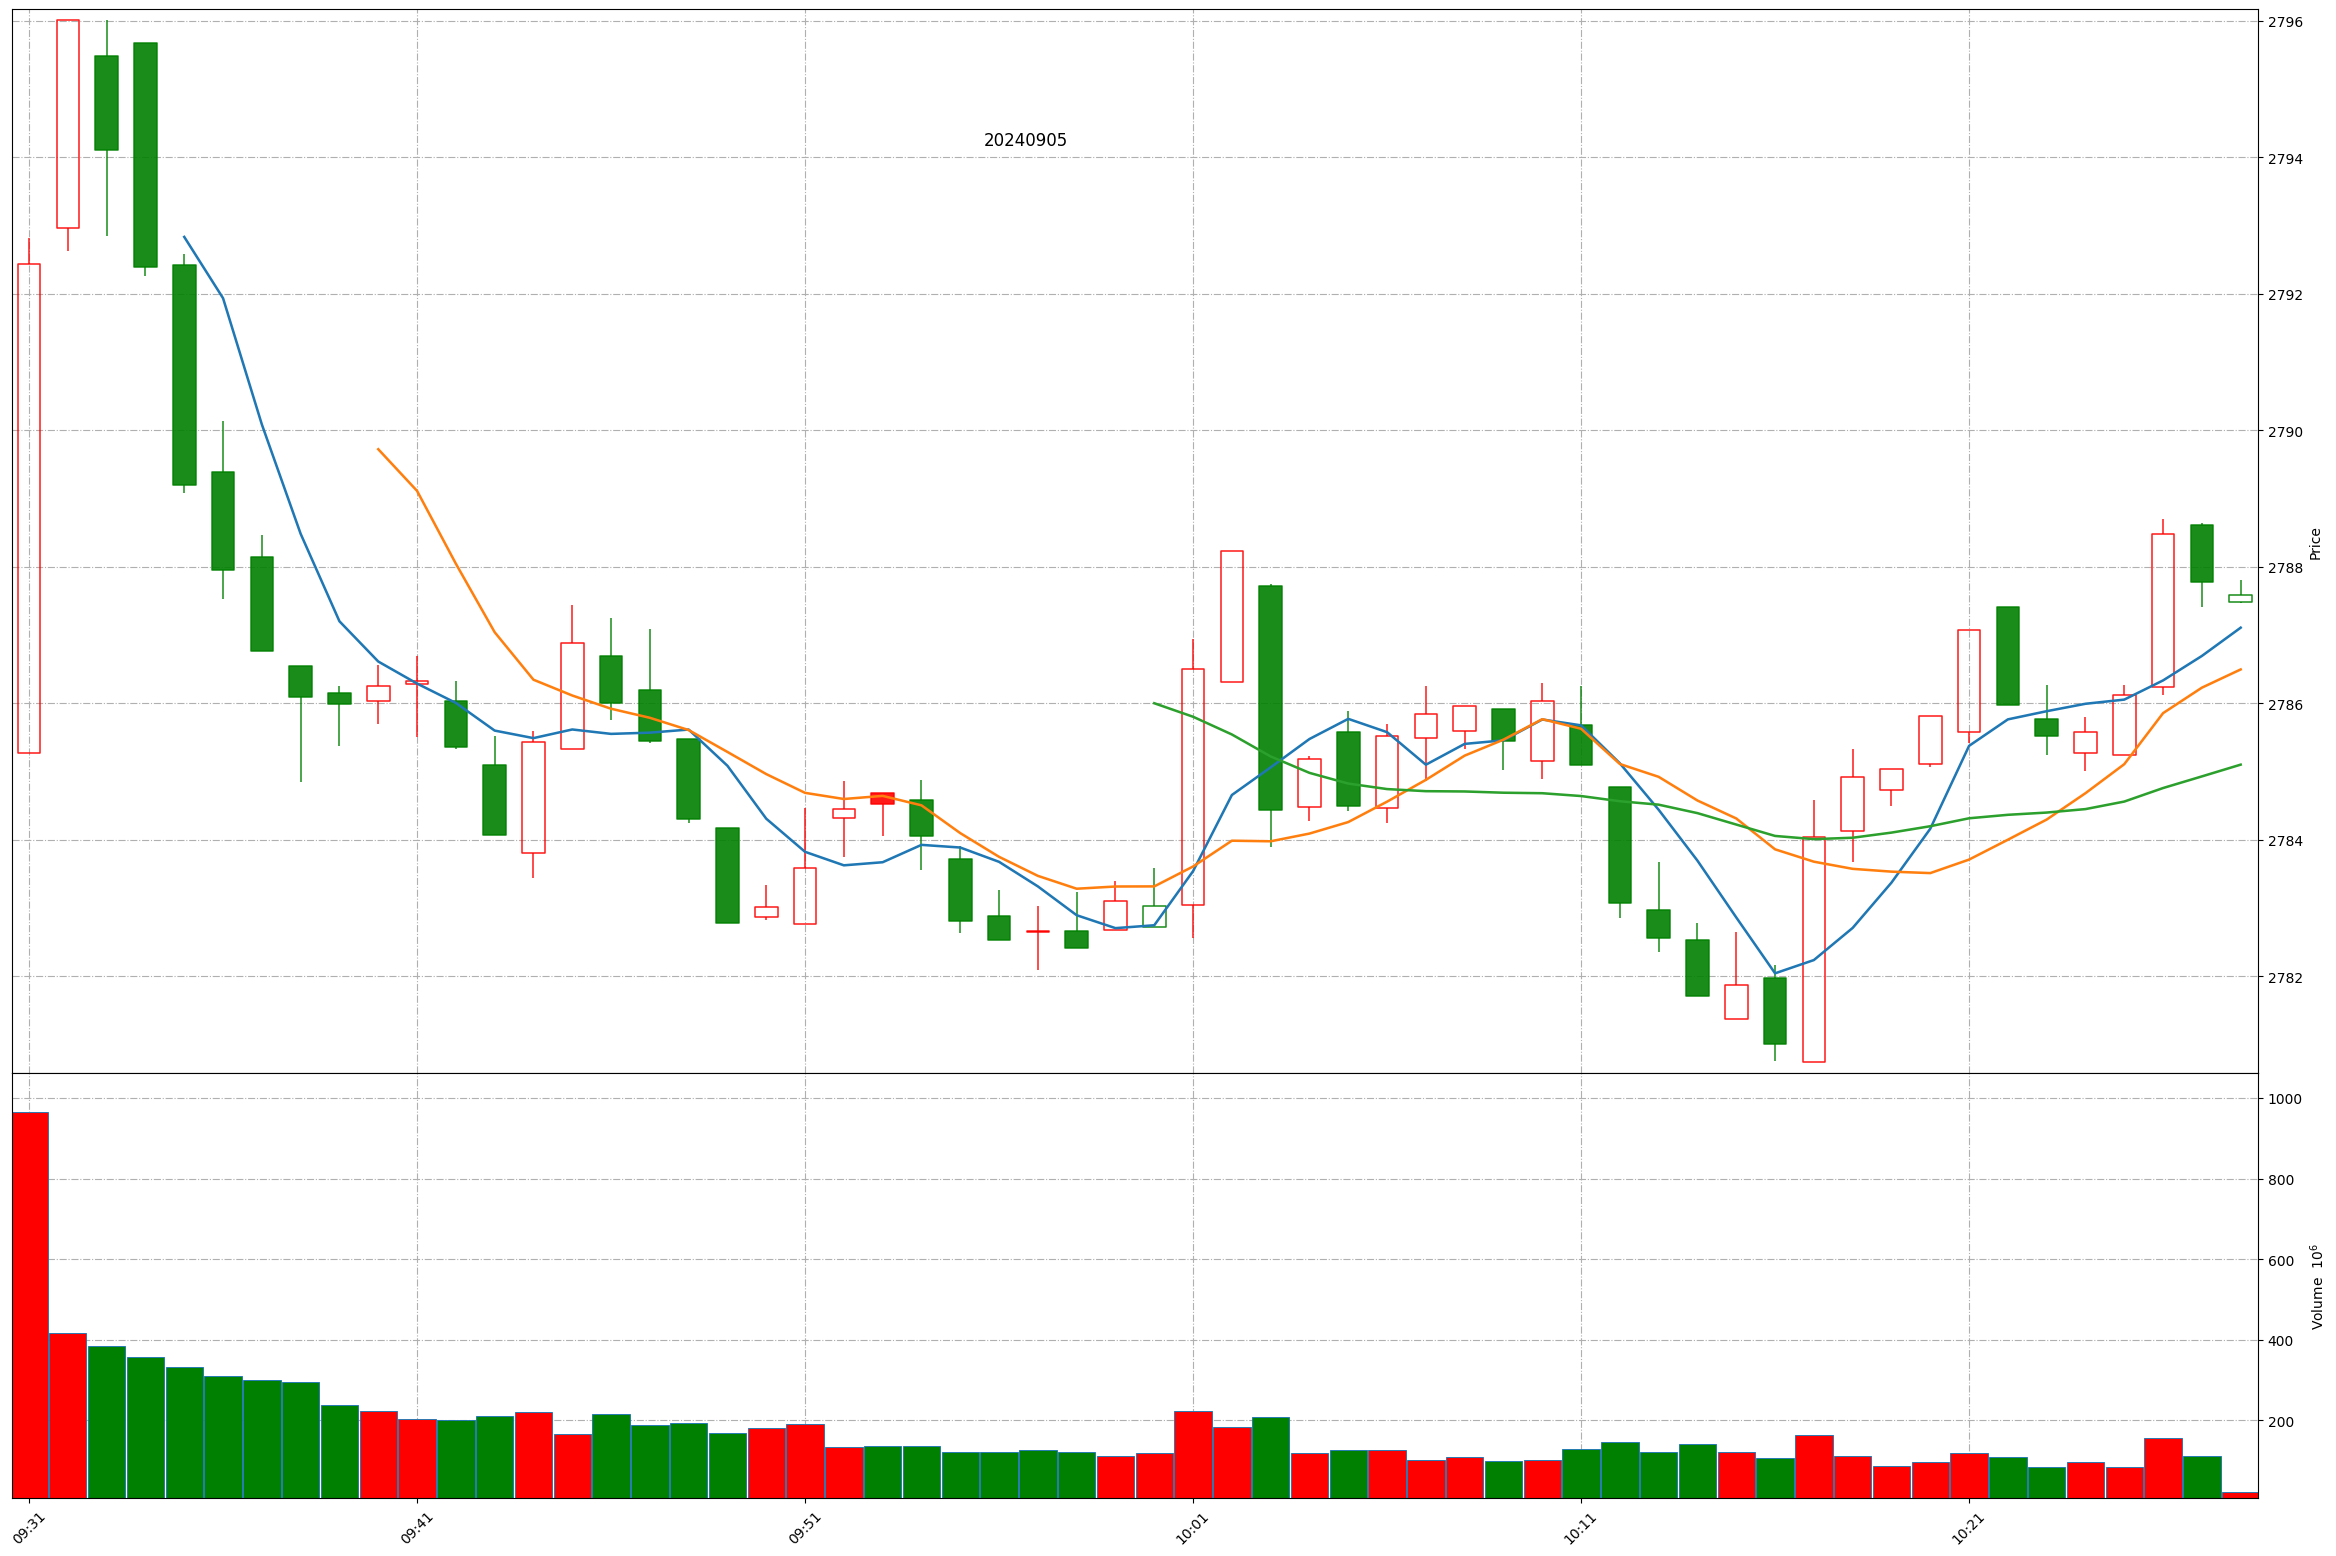
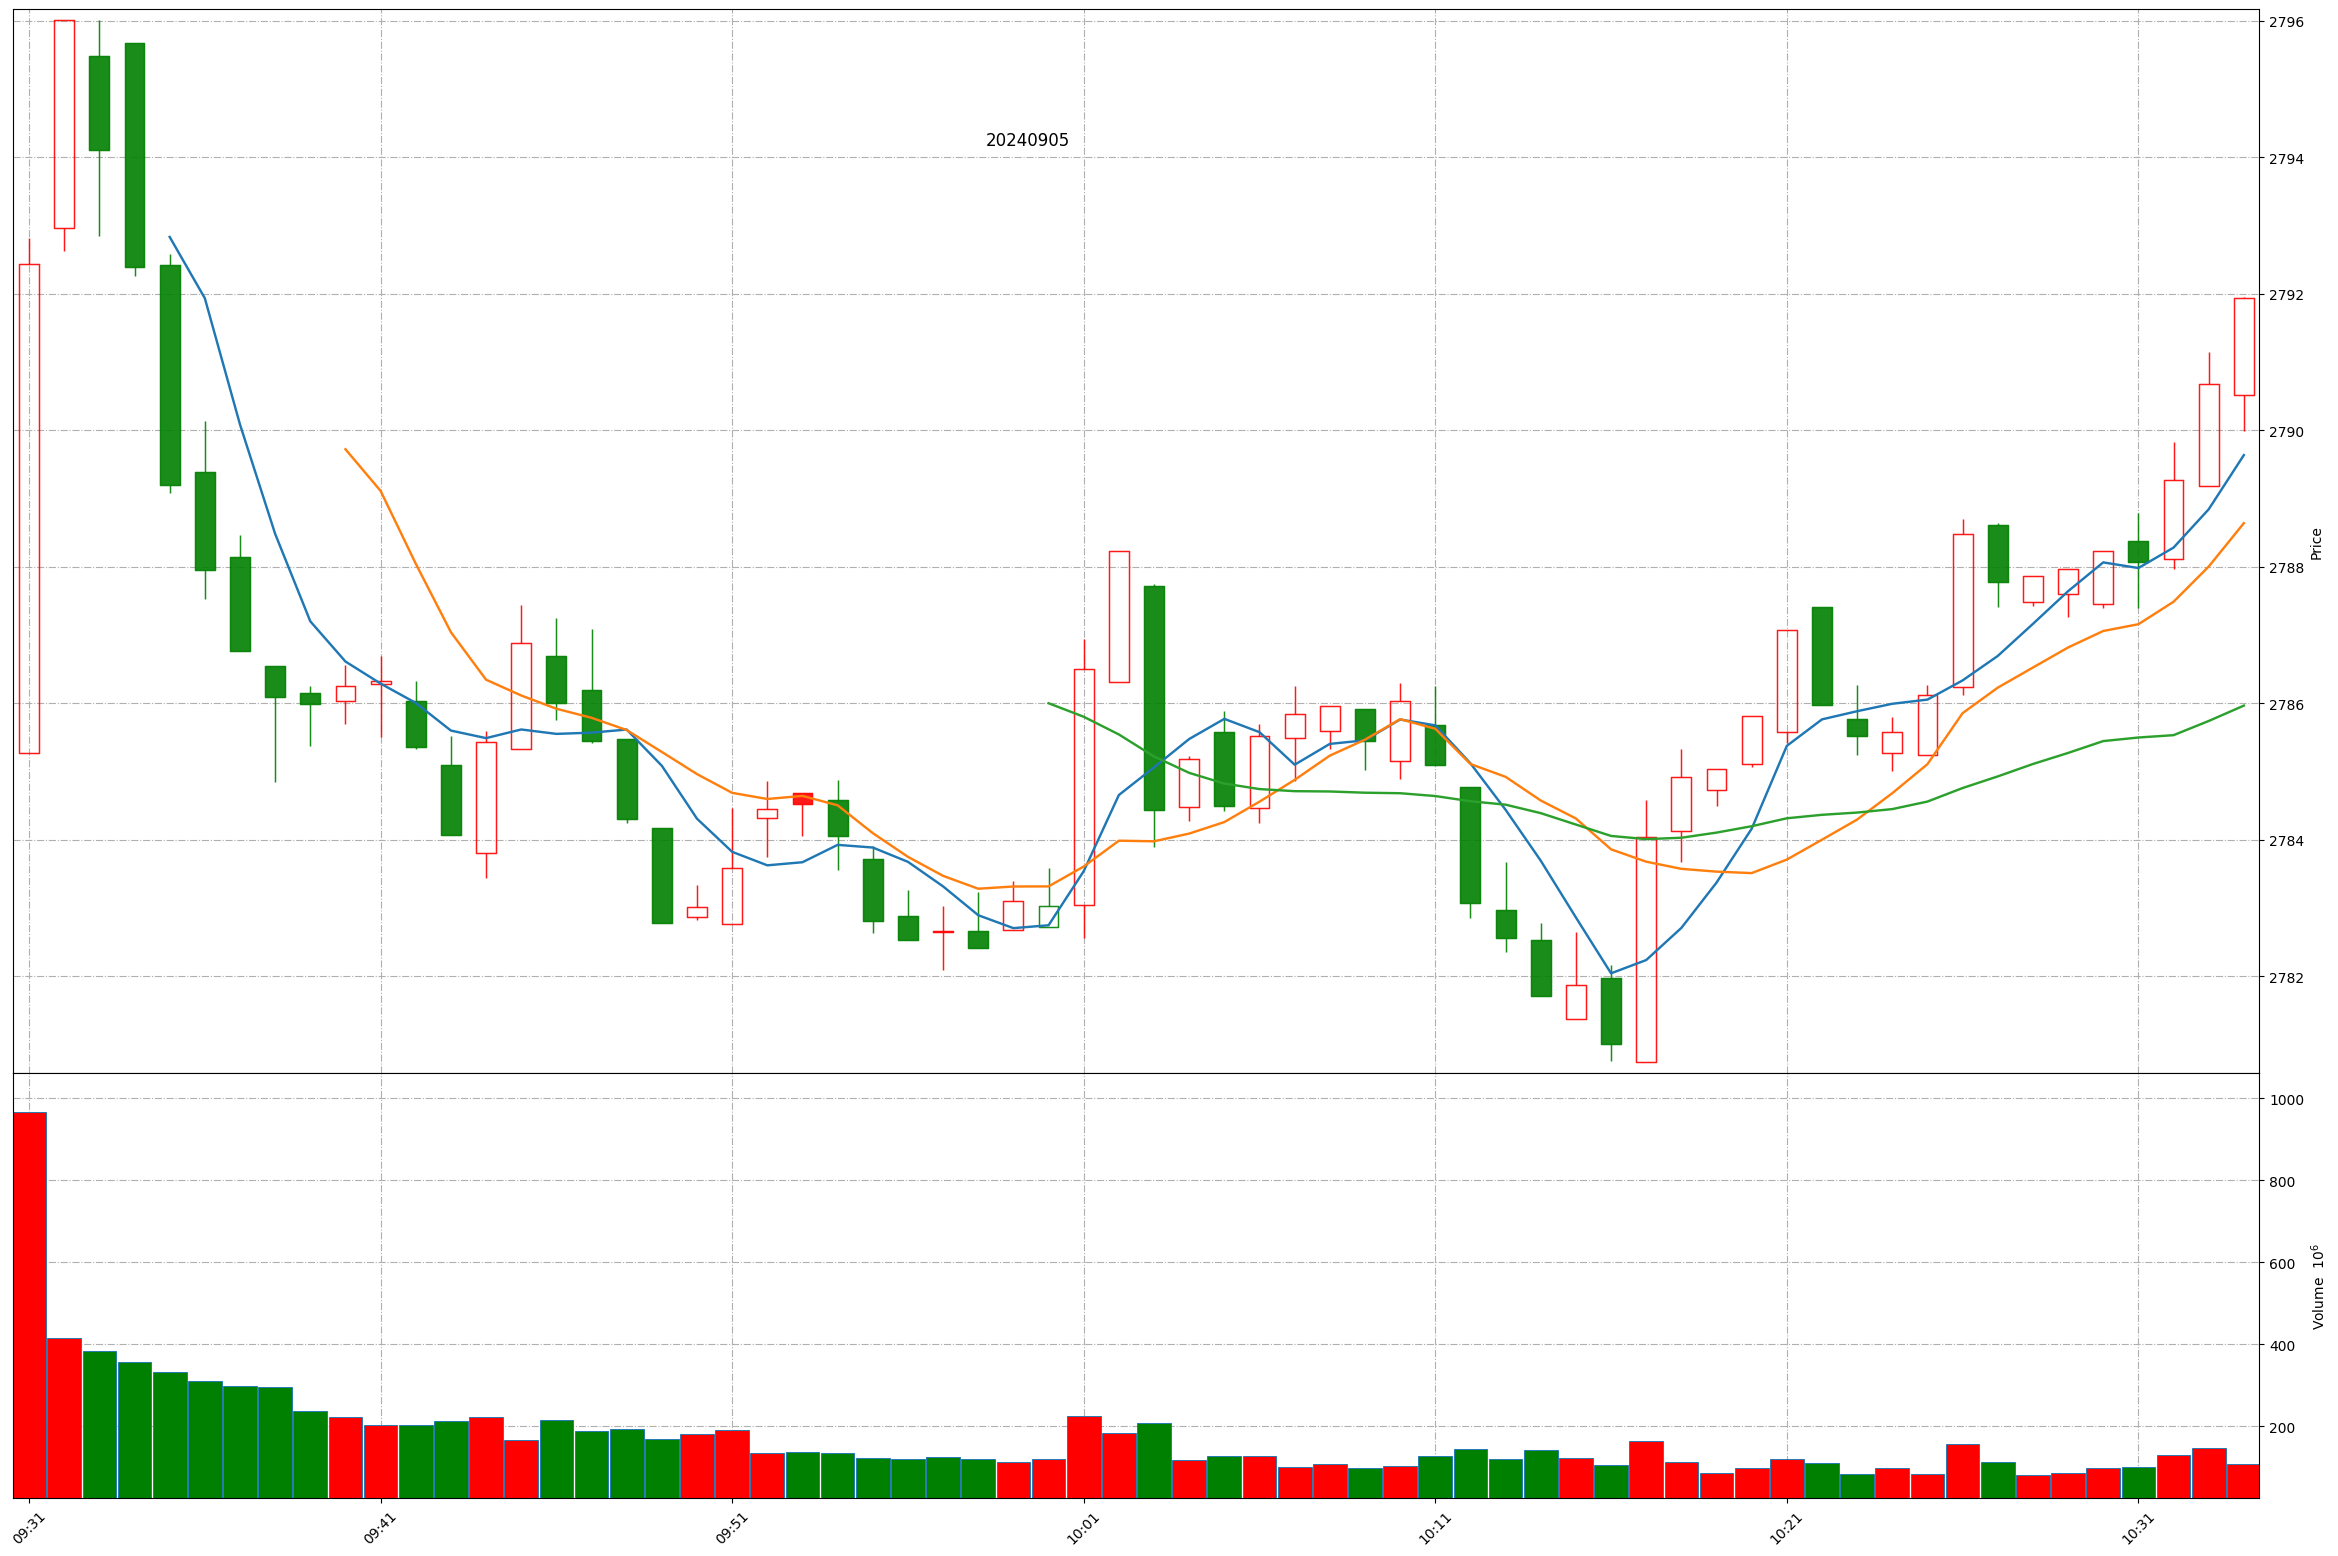
Github action update at 2024-09-05 10:33:59.

diff --git a/README.md b/README.md
@@ -1,11 +1,11 @@
 
 # Daily-A-share-market-quotes 每日 A 股指数（5min 更新）- 20240905
 
-### 上证指数 20240905 10:27
+### 上证指数 20240905 10:33
 ![](./fig/2024/9/20240905-sh000001.png)
 
-### 深证成指 20240905 10:27
+### 深证成指 20240905 10:33
 ![](./fig/2024/9/20240905-sz399001.png)
 
-### 北证50 20240905 10:27
+### 北证50 20240905 10:33
 ![](./fig/2024/9/20240905-bj899050.png)
